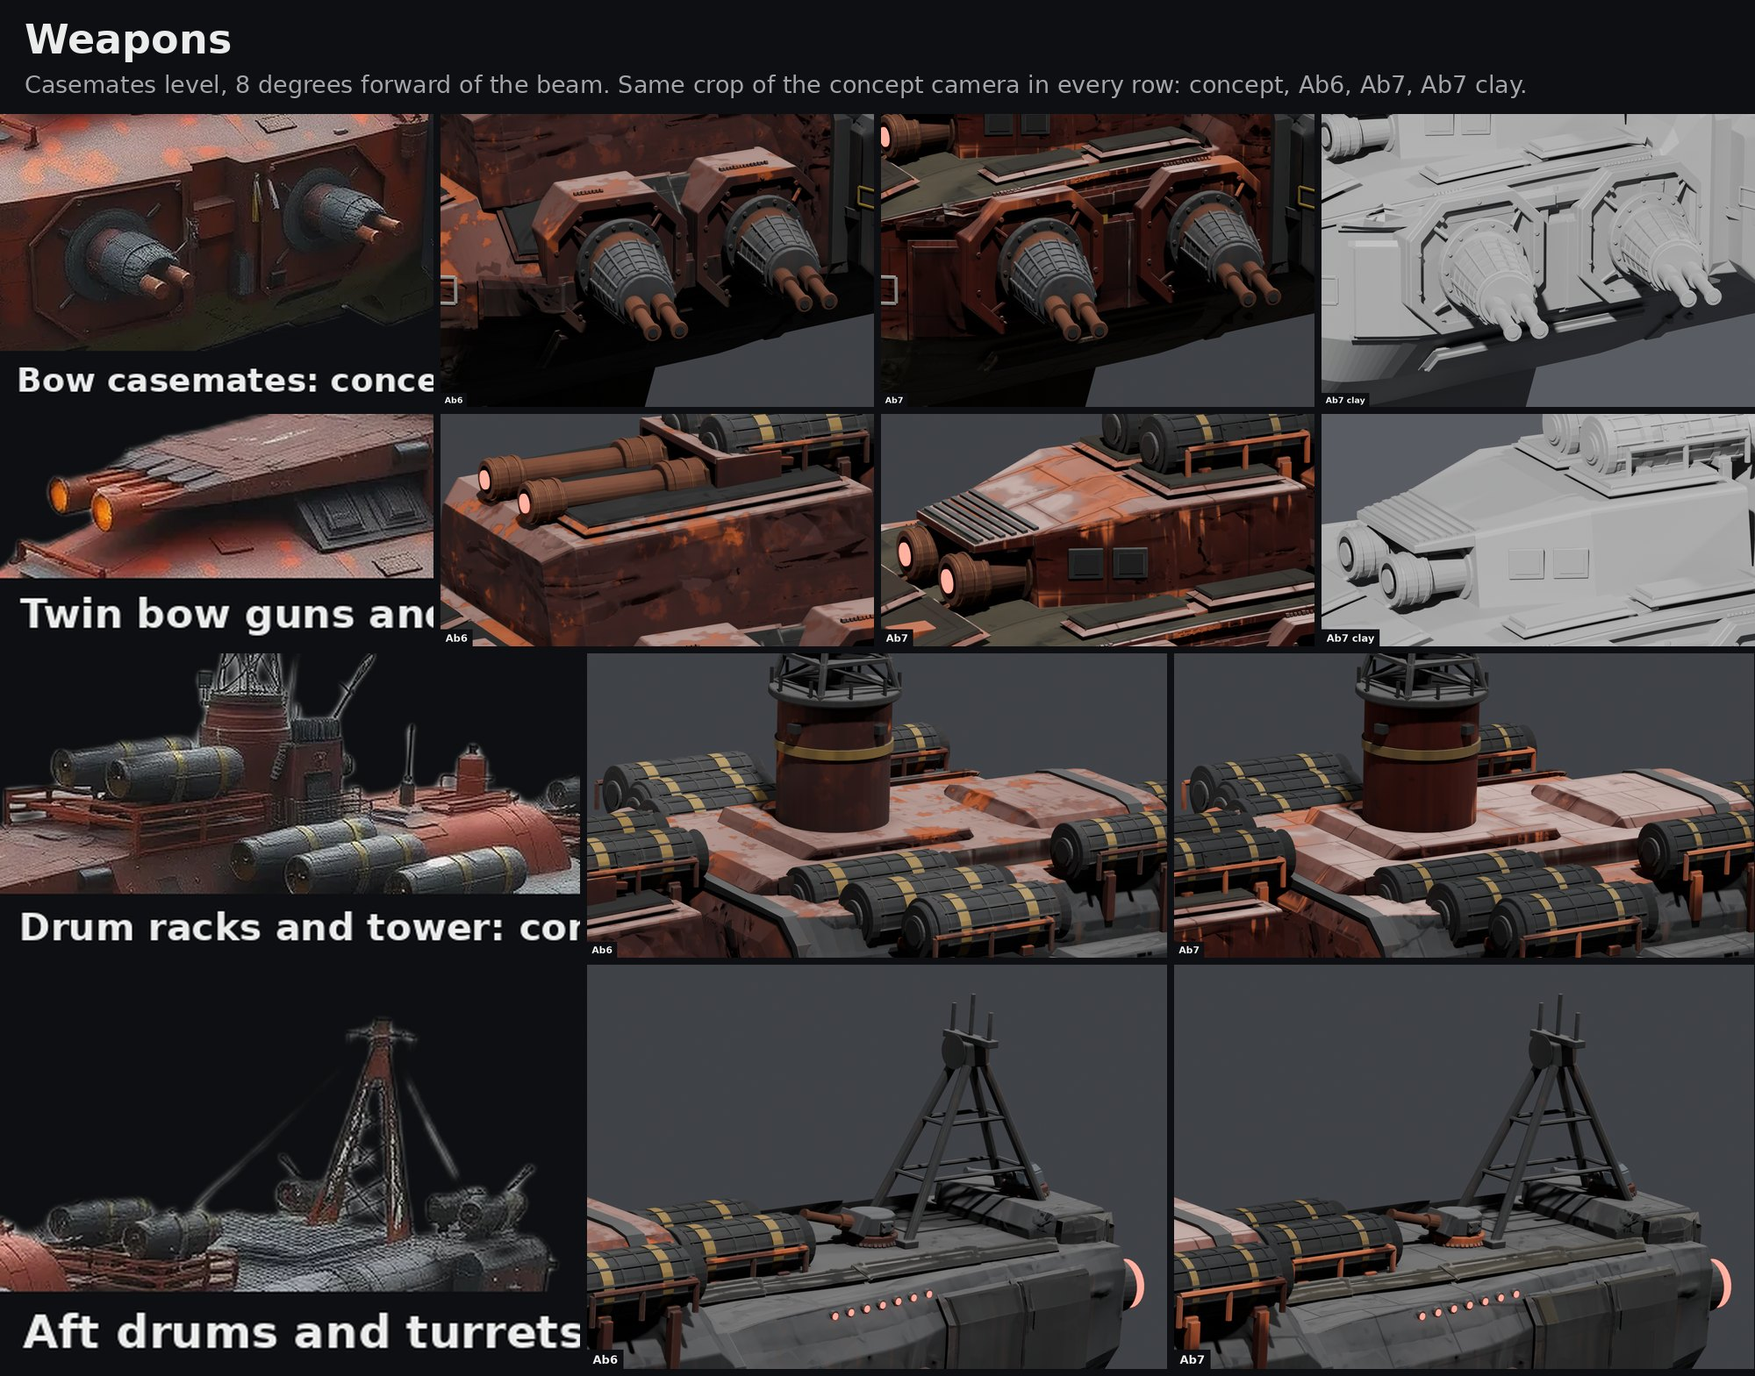
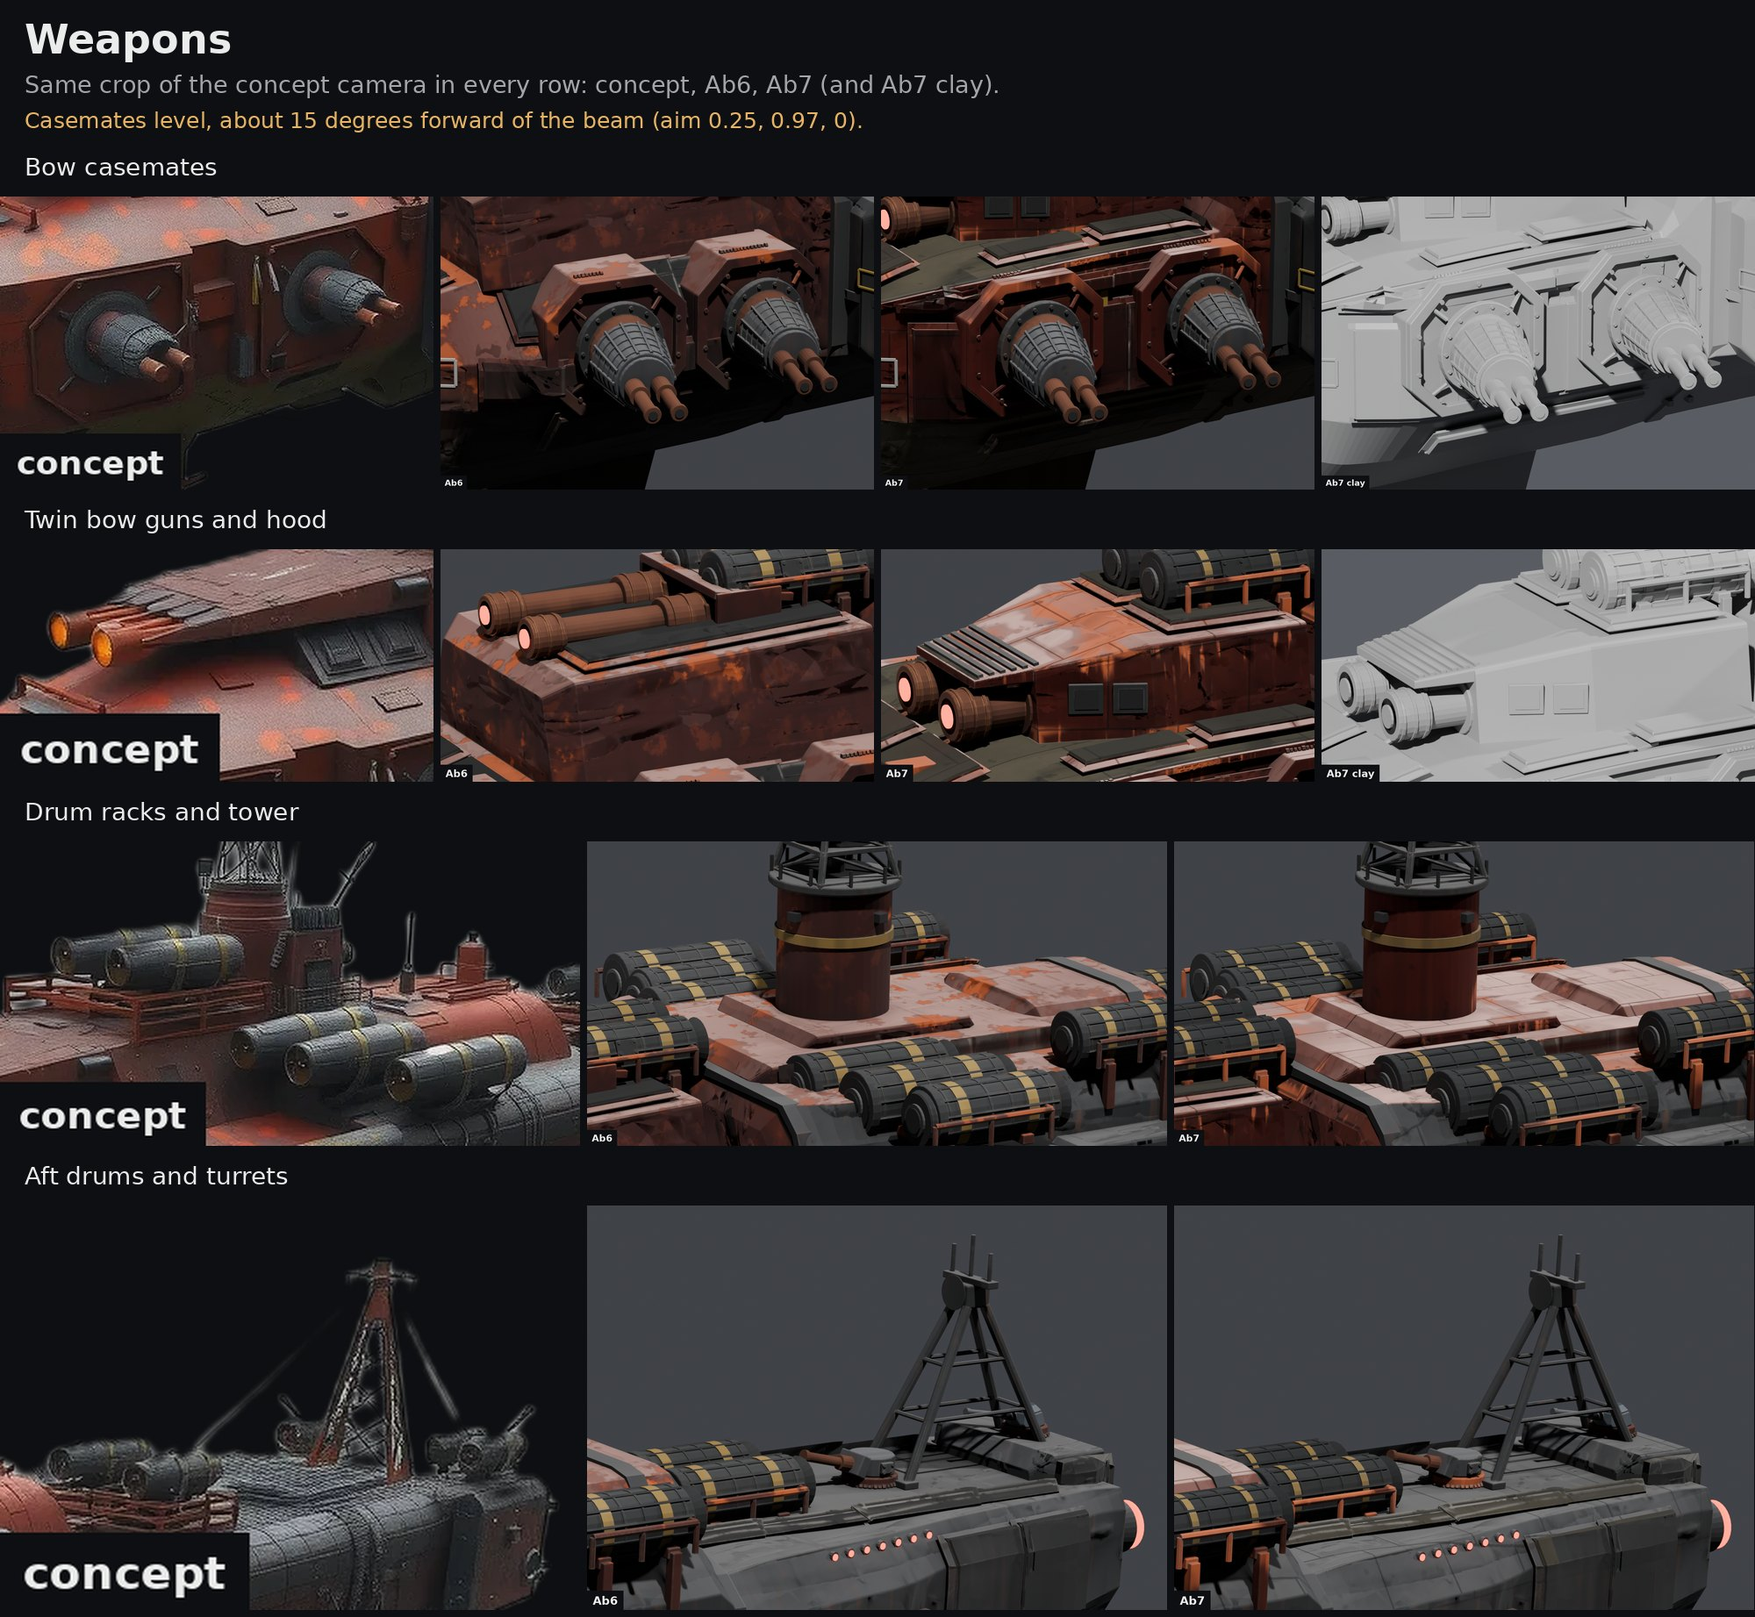
Issue 209 round 7: Muse's five conditions. The audit tests the build's own break lines and fails without them; guns carry their mount normals so the into-the-ship test reaches audit.json, with a self-test that three broken builds are refused; the Pillow and scipy guard runs before stage 1's concept 
Refs #209

Claude-Session: https://claude.ai/code/session_01TX7Q23can1f6QeVufKX6Qw

diff --git a/tools/recipe/audit.py b/tools/recipe/audit.py
@@ -1,5 +1,10 @@
 # Ship recipe, stage 4: audit an opened build (blender -b CELL.blend -P audit.py -- OUT.json): floating parts, parts across a break
-# line, guns aimed backward, with the shared one-pass audit (tools/blender/kits/shared/plumbing.py).
+# line, guns aimed backward or into the ship, with the shared one-pass audit (tools/blender/kits/shared/plumbing.py).
+# It fails loudly (exit 1, and audit.json says why) when the build carries no break lines of its own (common.set_break writes
+# r209_t_lines and r209_l_line into the blend; the module defaults belong to an older hull), when no gun carries its mount normal
+# (the into-the-ship test could not run), and when the audit lists any problem or any part across a break line.
+# What the floating test proves: every part touches the hull or another part. A part resting only on another part is excused, so a
+# chain of parts can hang off one that touches the hull; it does not prove each part sits on its own mount.
 import os, sys, json
 HERE = os.path.dirname(os.path.abspath(__file__))
 for p in (os.path.join(HERE, '..', 'blender', 'r209'), os.path.join(HERE, '..', 'blender', 'kits', 'shared')): sys.path.insert(0, os.path.normpath(p))
@@ -7,9 +12,25 @@ import bpy
 from mathutils import Vector
 import common as C, plumbing as PB
 out = sys.argv[sys.argv.index('--') + 1]
-objs = [o for o in bpy.context.scene.objects if o.type == 'MESH']
+sc = bpy.context.scene
+objs = [o for o in sc.objects if o.type == 'MESH']
 hull = [o for o in objs if o.get('role') == 'hull']; parts = [o for o in objs if o.get('role') not in ('hull', 'glow', 'interior')]
-guns = [(n, Vector(a)) for n, a in json.loads(bpy.context.scene.get('r209_guns', '[]'))]   # aims recorded by the hull module
-sc = bpy.context.scene      # the build's own break lines travel in the blend (common.set_break); the module defaults are an older hull's
-tl = tuple(sc['r209_t_lines']) if 'r209_t_lines' in sc else None; ll = tuple(sc['r209_l_line']) if 'r209_l_line' in sc else None
-au = PB.audit(hull, parts, guns, t_lines=tl, l_line=ll); au['guns'] = len(guns); json.dump(au, open(out, 'w'), indent=1); print('[audit]', json.dumps(au)[:2000])
+guns = []
+for g in json.loads(sc.get('r209_guns', '[]')):        # (name, aim) or (name, aim, mount normal), recorded by the hull module
+    guns.append((g[0], Vector(g[1]), Vector(g[2]) if len(g) > 2 and g[2] is not None else None))
+fail = []
+if 'r209_t_lines' not in sc or 'r209_l_line' not in sc:
+    fail.append('the build has no break lines of its own (r209_t_lines, r209_l_line); the audit will not fall back to an older hull\'s')
+if not hull: fail.append('no hull object (role hull) in the build')
+if not guns: fail.append('no guns recorded (r209_guns is empty)')
+elif not any(g[2] is not None for g in guns): fail.append('no gun carries its mount normal, so the into-the-ship test could not run')
+if fail:
+    au = dict(result='FAIL', failures=fail, problems=[], crossing_break_lines=[], guns=len(guns))
+else:
+    au = PB.audit(hull, parts, guns, t_lines=tuple(sc['r209_t_lines']), l_line=tuple(sc['r209_l_line']))
+    au['guns'] = len(guns); au['break_lines'] = dict(t_lines=list(sc['r209_t_lines']), l_line=list(sc['r209_l_line']))
+    au['result'] = 'FAIL' if (au['problems'] or au['crossing_break_lines']) else 'PASS'
+json.dump(au, open(out, 'w'), indent=1)
+print('[audit]', json.dumps(au)[:2000], flush=True)
+print('[audit]', au['result'], flush=True)
+sys.exit(0 if au['result'] == 'PASS' else 1)

diff --git a/tools/blender/kits/shared/plumbing.py b/tools/blender/kits/shared/plumbing.py
@@ -170,7 +170,11 @@ def audit(hull_objs, part_objs, guns=(), t_lines=None, l_line=None):
     from mathutils.bvhtree import BVHTree
     import common as C
     t_lines = C.T_LINES if t_lines is None else t_lines; l_line = C.L_LINE if l_line is None else l_line
-    probs = [f'gun {nm} aims backward (x {d.x:+.2f})' for nm, d in guns if d.x < -.05]; cross = []
+    probs = []; cross = []; into = 0
+    for g in guns:      # (name, aim) or (name, aim, mount normal): with the normal the into-the-ship rule is tested too (aim_ok)
+        nm, d = g[0], Vector(g[1]); nn = Vector(g[2]) if len(g) > 2 and g[2] is not None else None
+        if d.x < -.05: probs.append(f'gun {nm} aims backward (x {d.x:+.2f})')
+        elif nn is not None and not aim_ok(d, nn): probs.append(f'gun {nm} aims into the ship (aim . mount normal {d.normalized().dot(nn.normalized()):+.2f})'); into += 1
     T = C.bvh(hull_objs); allp = list(part_objs)
     bm = bmesh.new(); owner = []; dg = bpy.context.evaluated_depsgraph_get()
     for k, o in enumerate(allp):
@@ -189,4 +193,7 @@ def audit(hull_objs, part_objs, guns=(), t_lines=None, l_line=None):
             h = T.find_nearest(o.matrix_world @ v.co)
             if h[0] is not None: dmin = min(dmin, h[3])
         if dmin > .002: probs.append(f'part {o.name} floats {dmin * 41.6:.2f} game units off the hull')
-    return dict(problems=probs, parts=len(allp), crossing_break_lines=sorted(set(cross)))
+    # what the floating test proves: every part touches the hull or touches another part. A part resting only on another part is
+    # excused, so a chain of parts can hang off one that touches the hull; it does not prove each part sits on a real mount.
+    return dict(problems=probs, parts=len(allp), crossing_break_lines=sorted(set(cross)),
+                guns_with_normals=sum(1 for g in guns if len(g) > 2 and g[2] is not None), guns_into_ship=into)

diff --git a/tools/recipe/audit_selftest.py b/tools/recipe/audit_selftest.py
@@ -1,0 +1,21 @@
+# Ship recipe, stage 4: prove the audit fails when it should (Muse condition 2 on PR 341, R158). Three broken copies of the opened
+# build, in memory only (the blend on disk is never written): a gun turned into the ship against its mount normal, the build's own
+# break lines removed, the mount normals removed. audit.py must refuse all three.
+# usage: blender -b CELL.blend -P audit_selftest.py -- OUT_DIR      (exit 0: all three refused; 1: one got through)
+import os, sys, json, runpy
+import bpy
+HERE = os.path.dirname(os.path.abspath(__file__)); AUDIT = os.path.join(HERE, 'audit.py')
+out = sys.argv[sys.argv.index('--') + 1]; os.makedirs(out, exist_ok=True); blend = bpy.data.filepath; ok = True
+for case in ('into_ship', 'no_break_lines', 'no_normals'):
+    bpy.ops.wm.open_mainfile(filepath=blend); sc = bpy.context.scene; g = json.loads(sc.get('r209_guns', '[]'))
+    if case == 'into_ship' and g and len(g[0]) > 2 and g[0][2]:
+        g[0][1] = [-v for v in g[0][2]]; sc['r209_guns'] = json.dumps(g)          # aimed straight back into its own mount
+    elif case == 'no_break_lines' and 'r209_t_lines' in sc: del sc['r209_t_lines']
+    elif case == 'no_normals': sc['r209_guns'] = json.dumps([x[:2] for x in g])
+    sys.argv = ['blender', '--', os.path.join(out, f'audit_{case}.json')]
+    try: runpy.run_path(AUDIT, run_name='__main__'); code = 0
+    except SystemExit as e: code = e.code or 0
+    good = code != 0; ok &= good
+    print(('ok  ' if good else 'BAD ') + f' {case}: the audit ' + ('failed as it must' if good else 'PASSED a broken build'), flush=True)
+print('PASS the audit fails when it should' if ok else 'FAIL the audit let a broken build through', flush=True)
+sys.exit(0 if ok else 1)

diff --git a/tools/blender/r209/armA7.py b/tools/blender/r209/armA7.py
@@ -175,7 +175,7 @@ def build_geometry(hero=(), G=None):
     A6.other_parts(seat); bow_fittings(PB.Seat(S + Pl))
     ship = json.load(open(SHIP)); socks = PB.resolve(PB.sockets_from(ship), PB.Seat(S + Pl))
     bad = HB.build(socks, PB.Seat(S + Pl))
-    for n, a, nn in PB.GUNS: GUNS.append((n, a))
+    for n, a, nn in PB.GUNS: GUNS.append((n, a, nn))       # the mount normal travels with the gun (Muse condition 2, R158)
     bpy.context.scene['r209_hp'] = json.dumps(PB.hardpoint_data(socks))      # muzzles and engine exits for the game export
     notes.append(dict(kit=HB.FACTION, bow='round 7 bow pass (armA7)', guns_badly_aimed=bad,
                       sockets=[dict(name=s.name, part=s.part, pos=[round(v, 4) for v in s.pos], aim=[round(v, 3) for v in s.aim],
@@ -191,7 +191,7 @@ if __name__ == '__main__':
     out = a[0]; cell = a[1] if len(a) > 1 else 'Ab7'; t0 = time.time()
     S, Pl, hard, gen, notes, prox = build_geometry()
     rep = C.report(S + Pl + hard)
-    bpy.context.scene['r209_guns'] = json.dumps([(n, list(a)) for n, a in GUNS])   # the audit (tools/recipe/audit.py) reads the aims
+    bpy.context.scene['r209_guns'] = json.dumps([(g[0], list(g[1]), list(g[2]) if len(g) > 2 and g[2] is not None else None) for g in GUNS])   # the audit (tools/recipe/audit.py) reads aims and mount normals
     os.makedirs(out, exist_ok=True); bpy.ops.wm.save_as_mainfile(filepath=os.path.join(out, f'{cell}.blend'))
     meta = dict(cell=cell, plates=len(Pl), plate_crossing=plate_crossing(Pl), seconds=round(time.time() - t0, 1), notes=notes, **rep)
     json.dump(meta, open(os.path.join(out, f'{cell}_build.json'), 'w'), indent=1)

diff --git a/tools/blender/r209/sheets7pc.py b/tools/blender/r209/sheets7pc.py
@@ -142,10 +142,11 @@ for v in ('top', 'below'):
 stack(fs, 'far_side.jpg')
 
 # ---- (f) weapons
-wp = [head('Weapons', 'Casemates level, 8 degrees forward of the beam. Same crop of the concept camera in every row: concept, Ab6, Ab7, Ab7 clay.')]
+wp = [head('Weapons', 'Same crop of the concept camera in every row: concept, Ab6, Ab7 (and Ab7 clay).', ['Casemates level, about 15 degrees forward of the beam (aim 0.25, 0.97, 0).'])]
 for k, (b, t) in CLOSE.items():
     cl = (lambda d, c: P(d + '/close', f'{c}_{k}_clay.png')) if k in ('cas', 'bow') else None
-    ims = [lab(crop1024(C, b), t + ': concept', 26), lab(P(R6 + '/close', f'Ab6_{k}_concept.png'), 'Ab6', 26), lab(P(R7 + '/close', f'Ab7_{k}_concept.png'), 'Ab7', 26)]
+    wp.append(text([t], 28, FG))
+    ims = [lab(crop1024(C, b), 'concept', 26), lab(P(R6 + '/close', f'Ab6_{k}_concept.png'), 'Ab6', 26), lab(P(R7 + '/close', f'Ab7_{k}_concept.png'), 'Ab7', 26)]
     if cl: ims.append(lab(cl(R7, 'Ab7'), 'Ab7 clay', 26))
     wp.append(row(ims))
 stack(wp, 'weapons.jpg')

diff --git a/docs/ship_pipeline/RECIPE.md b/docs/ship_pipeline/RECIPE.md
@@ -9,18 +9,33 @@ asks for the ship id once (the concept's file name, for example `C15s_23`), writ
 `Downloads\voidsworn_test\recipe\<ship>\`, and ends with a plain PASS, FAIL or "done" line. Nothing is deleted. Heavy steps run on
 the 5080; all tools are free and local.
 
+**Must already be on the PC before the first run** (the recipe does not install these): Blender 4.5.14 at
+`Downloads\voidsworn_test\blender\blender-4.5.14-windows-x64\`, Godot 4.7.2 (the console build) at
+`Downloads\voidsworn_test\godot\Godot_v4.7.2-stable_win64_console.exe`, and, for stage 2 only, the TRELLIS.2 venv at
+`Downloads\trellis2\code\venv\`. Pillow and scipy go into Blender's own python on the first run of any stage (`env.bat`, before
+stage 1 writes the concept).
+
+**Every stage stops on its own failure** (Muse's check of round 6, condition 4; R158): each step's output or its own success line in
+its log is checked, the stage prints `Stage N FAILED: ...` with the log to read, and exits non-zero. No stage prints "done" after a
+failed step. Stage 2 fails when the shape reference is still missing; stages 3 and 5 refuse to start without it; stage 4 fails when
+the build is not written, when the audit lists any problem or any part across a break line, or when the audit's self-test lets a
+broken build through; stages 3 and 4 exit non-zero when the outline gate fails (stage 4 still makes the clay close-ups first, so the
+shape can be judged); stage 6 fails when the LOD export or the Godot bench does not finish; stage 7 as below.
+
 | Stage | File | What it does | Output | Time on the PC |
 |---|---|---|---|---|
 | 1. Concept in | `1_concept_in.bat` | checks `docs\ship_pipeline\concepts\<ship>.webp`, starts `tools\recipe\ships\<ship>.json` from the template (asks the faction), writes the concept with its outline | `concept.png` | seconds |
 | 2. AI shape reference | `2_shape_ref.bat` | TRELLIS.2 turns the concept cut-out into one whole-hull mesh: a shape reference and a source of surface grime, never shipped. Every current concept already has one | `bakeoff\<ship>_trellis.glb` | 2 to 4 min |
 | 3. Traced hull and the outline gate | `3_trace_hull.bat` | slices the shape reference and fits clean faceted sections (`b0trace.py`); tunes the hull module's numbers on the concept outline with a pull toward the shape reference (`tune5.py`); scores the outline at the concept's own camera. Gate: 90 percent overlap | `sil\sil_<cell>.png`, PASS or FAIL | 10 to 25 min (tune) |
-| 4. Faction parts kit | `4_parts_kit.bat` | builds the hull with the faction kit's parts at the ship's sockets, audits it (nothing floats, nothing crosses a break line, no gun aimed backward or into the ship), re-scores the gate with the parts on, renders clay close-ups at the concept camera | `build\<cell>.blend`, `audit.json`, `clay\` | about 5 min |
-| 5. Paint bake | `5_paint_bake.bat` | the faction paint and the shape reference's grime baked to atlases (hull albedo, ORM, detail normal; parts albedo, ORM), renders at the concept camera (studio and concept light) and the fixed views, weapon close-ups | `<cell>.blend`, maps, `r\`, `close\` | 30 to 40 min |
+| 4. Faction parts kit | `4_parts_kit.bat` | builds the hull with the faction kit's parts at the ship's sockets, audits it (`audit.py`: nothing floats, nothing crosses the build's own break lines, no gun aimed backward or into the ship against its mount normal), proves the audit can fail (`audit_selftest.py`: three broken copies refused), re-scores the gate with the parts on, renders clay close-ups at the concept camera | `build\<cell>.blend`, `audit.json`, `clay\` | about 5 min |
+| 5. Paint bake | `5_paint_bake.bat` | the bake script named by the ship json's `bake` (`bakeAb6.py` for C15s_23; it builds whichever hull module `hull` names, so any ship whose hull module follows `armA5` to `armA7` uses it; a ship with its own bake names it there): the faction paint and the shape reference's grime baked to atlases (hull albedo, ORM, detail normal; parts albedo, ORM), renders at the concept camera (studio and concept light) and the fixed views, weapon close-ups | `<cell>.blend`, maps, `r\`, `close\` | 30 to 40 min |
 | 6. LOD | `6_lod.bat` | the hand LOD chain (lod0 to lod3 sharing one set of atlases, small parts drop out by size) and the Godot cost bench (twenty copies, 1080p and 3D at 4K). Costs are reported, never capped (R111) | `glb\<cell>.glb`, `godot\` | about 3 min |
 | 7. Game export | `7_export.bat` | writes the game's ship folder from the baked ship and the ship json, with no hand steps: the ship glb with a node per hard point, and the 2048 map set. Then reads the glb back and checks it: FAIL when a weapon slot of the ship's `data.js` weapon list has no hard point, or a hard point is off the mesh. Then proves the check can fail (three broken copies must be refused). Details below | `recipe\<ship>\export\<code>\` | about a minute |
 
 Ryan's review rounds sit after stage 3 (shape), after stage 5 (weapons and paint, the close-up and paint sheets) and after
-stage 6 (cost). Opus builds the sheets from the stage outputs (`tools/blender/r209/sheets6.py`).
+stage 6 (cost). Opus builds the sheets from the stage outputs (`tools/blender/r209/sheets7pc.py` since round 7: the battle camera
+first, then paint region by region, the bow with the outline per third and the inner edge check from `outline_thirds.py`, the far
+side, weapons, overview and the firing capture).
 
 ## What a ship needs (the per-ship data)
 
@@ -38,6 +53,17 @@ Socket positions and sizes are measured off the concept through the fitted camer
 onto a plane at a plausible height, read x, y and z (round 6 README, section 1, has the C15s numbers and the method). Then the
 gate decides: a part that pokes outside the concept's outline at the concept camera costs overlap, so sizes settle where the
 weapons read like the concept and the outline stays at 90 percent or better.
+
+## What the stage 4 audit proves, and what it does not
+
+- **Floating:** every part touches the hull or touches another part. A part resting only on another part is excused, so a chain of
+  parts can hang off one that touches the hull; the test does not prove that each part sits on its own mount (that is the
+  placement rule, checked by eye on the clay close-ups).
+- **Break lines:** the build's own (`common.set_break` writes them into the blend as `r209_t_lines` and `r209_l_line`). With none in
+  the blend the audit fails; it never falls back to an older hull's lines.
+- **Guns:** each gun carries its aim and its mount's outward normal (`plumbing.register_gun`, kept by the hull module in
+  `r209_guns`). A gun aimed backward (x below -0.05) or into the ship (aim against the mount normal) is a problem; with no normals at
+  all the audit fails, because the into-the-ship test could not run.
 
 ## Stage 7: the game export (issue 209 round 7; FINDINGS R155, R156)
 
@@ -103,6 +129,7 @@ in the recipe, and the next change makes it data.
   `docs/shots/ship_pipeline/route209/round4/concept_camera.json`; game ship `c_marauder`, game code `C15s_23`.
 - Kit: `tools/blender/kits/hullbreakers/kit.py` and `paint.py`.
 - Reports and sheets: `docs/shots/ship_pipeline/route209/round6/README.md`, `docs/shots/ship_pipeline/route209/round7/README.md`.
-- The outline gate after round 7 reads 89.7 percent, under the 90 gate: the bow pass and the casemates' concept spacing cost
-  0.3 (round 7 README, step 3, shows both versions). Stage 4 prints FAIL for it; that is the honest reading, and R156 puts the
-  bow's look ahead of the score.
+- The outline gate after round 7 reads 89.7 percent (scored from the PC glb; the game export 89.6), under the 90 gate: the bow
+  pass cost 0.3 against Ab6's 90.0. Per third (`outline_thirds.py`, audit pass 2 finding 13): bow 90.3 (Ab6 91.0), midship 90.7,
+  stern 85.1. Stage 4 exits on the gate FAIL; that is the honest reading, and R156 puts the bow's look ahead of the score.
+- `shape_ref_yaw` 22.0 is the C15s_23 value (its shape reference turned into the ship frame); a new ship measures its own.
